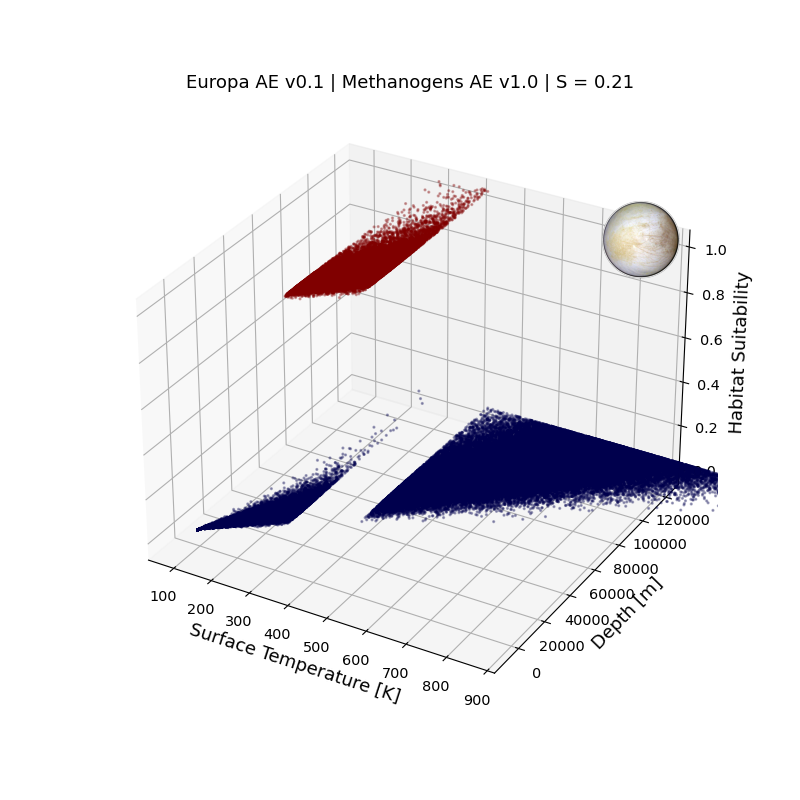
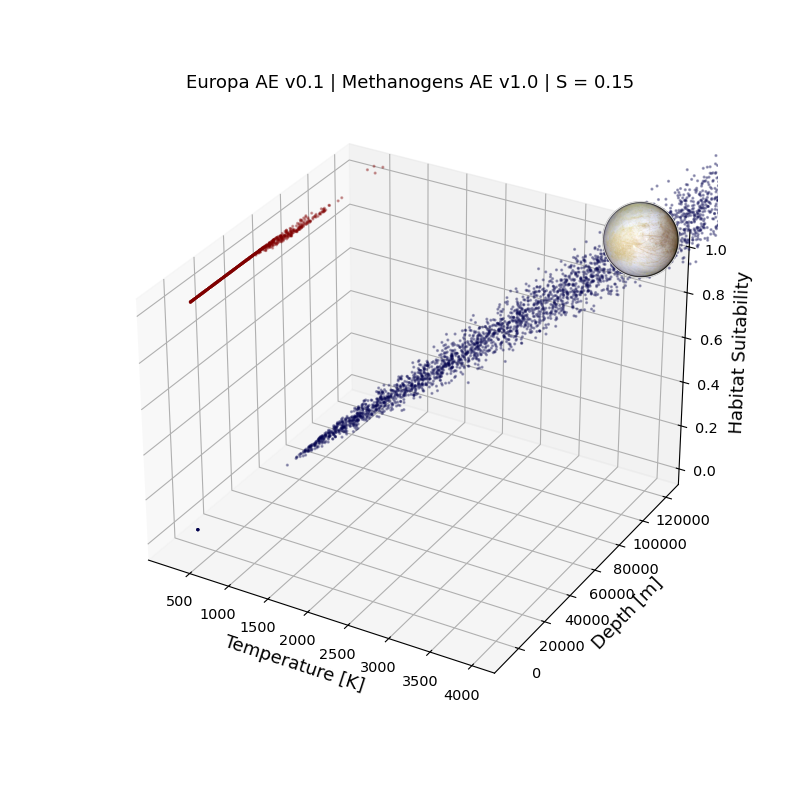
Added a lower-boundary value for Europa ocean temperature, and made various bug fixes related to parameter value types in the Europa module

diff --git a/Habitats/.ipynb_checkpoints/europamodules-checkpoint.py b/Habitats/.ipynb_checkpoints/europamodules-checkpoint.py
@@ -20,7 +20,7 @@ def europamodules():
     def _execute(self):
         #global Bond_Albedo
         mu_albedo, sigma_albedo = 0.64, 0.00 # mean and standard deviation. The albedo is from "The Planetary Scientist's Companion", Lodders & Fegley
-        keyparams.Bond_Albedo = np.random.normal(mu_albedo, sigma_albedo, 1)[0]
+        keyparams.Bond_Albedo = np.random.normal(mu_albedo, sigma_albedo, 1)
 
     ModuleTemp.execute = types.MethodType(_execute, ModuleTemp)
     ModuleAlbedo = ModuleTemp
@@ -37,9 +37,9 @@ def europamodules():
     def _execute(self):
         #global Luminosity, Stellar_Mass, Stellar_Age
         keyparams.Luminosity = mu_st_lum, sigma_st_lum = 1.0, 0.00001 # Solar luminosity is 1.0 in Lsol units
-        keyparams.Luminosity = np.random.normal(mu_st_lum, sigma_st_lum, 1)[0]
+        keyparams.Luminosity = np.random.normal(mu_st_lum, sigma_st_lum, 1)
         mu_st_mass, sigma_st_mass = 1.0000, 0.000001 # mean and standard deviation, Solar mass in solar units
-        keyparams.Stellar_Mass = np.random.normal(mu_st_mass, sigma_st_mass, 1)[0]
+        keyparams.Stellar_Mass = np.random.normal(mu_st_mass, sigma_st_mass, 1)
         keyparams.Stellar_Age = 4.567 # average eccentricity
     ModuleTemp.execute = types.MethodType(_execute, ModuleTemp)
     ModuleStar = ModuleTemp
@@ -77,7 +77,7 @@ def europamodules():
         Msol = 1.98910e30 # Solar mass in kilograms
         MEarth = 5.9736e24 # Earth mass in kilograms
         mu_p, sigma_p = 0.47910e23 / Msol, 0.00 # mean and standard deviation in units of Mstar, from "The Planetary Scientist's Companion", Lodders & Fegley
-        keyparams.Planet_Mass_Mstar = np.random.normal(mu_p, sigma_p, 1)[0] # Planet mass in units of stellar mass
+        keyparams.Planet_Mass_Mstar = np.random.normal(mu_p, sigma_p, 1) # Planet mass in units of stellar mass
         unitconversion = MEarth / Msol # Convert Solar mass to Earth mass
         keyparams.Planet_Mass = keyparams.Planet_Mass_Mstar * keyparams.Stellar_Mass * unitconversion # Planet mass in Earth masses
         #keyparams.Mantle_Composition = [0.7,0.3] # Fe / Si / Mg mass ratio
@@ -86,12 +86,12 @@ def europamodules():
         if keyparams.ProbeIndex is not None:        # Is the program sampling multiple locations in the parameter space?
             keyparams.Depth = keyparams.ProbeIndex * 1000. # If so, depth [in meter] is calculated from the probe index
         else:
-            keyparams.Depth = np.random.uniform(low=0., high=136_000.)[0] # Depth in meter
+            keyparams.Depth = np.random.uniform(low=0., high=136_000.) # Depth in meter
 
-        mu_ice, sigma_ice = 20000., 4000. # mean and standard deviation in units of  # Ice thickness mean and 1 sigma, in meters; assumption
+        mu_ice, sigma_ice = 20_000, 4_000.00 # mean and standard deviation in units of  # Ice thickness mean and 1 sigma, in meters; assumption
         keyparams.Mean_IceThickness  = mu_ice
-        keyparams.Ice_Thickness = np.clip(np.random.normal(mu_ice, sigma_ice, 1),0.0, 20_000.).item() # Ice thickness
-        #print(keyparams.Ice_Thickness.item())
+        keyparams.Ice_Thickness = np.clip(np.random.normal(mu_ice, sigma_ice, 1),0.0, 400.) # Ice thickness mean and 1 sigma, in meters
+
 
     ModuleTemp.execute = types.MethodType(_execute, ModuleTemp)
     ModuleTemp.define_ID(m_id)
@@ -112,11 +112,9 @@ def europamodules():
     ModuleTemp.add_output('Internal_Pressure')
     def _execute(self):
         mu_p, sigma_p = 0.000, 0.000 # mean and standard deviation, pressure in units of atm -- Lacking an atmosphere, Europa does not have atmospheric pressure
-        keyparams.Surface_Pressure = np.random.normal(mu_p, sigma_p, 1)[0]
+        keyparams.Surface_Pressure = np.random.normal(mu_p, sigma_p, 1)
         keyparams.Surface_Pressure = np.clip(keyparams.Surface_Pressure, 0., 5e3) # Limit pressure to the range in which the lower T boundary of the water phase diagram is mostly constant
         keyparams.Internal_Pressure = keyparams.Surface_Pressure + (keyparams.Depth * keyparams.Gravity * keyparams.Density)/101325.  # Pressure at Depth equals atmospheric pressure plus density times gravity times column height (i.e., depth)
-        # fix Internal_Pressure being single-valued array to being a float
-        keyparams.Internal_Pressure = keyparams.Internal_Pressure
         keyparams.Pressure = keyparams.Internal_Pressure
     ModuleTemp.execute = types.MethodType(_execute, ModuleTemp)
     ModuleTemp.define_ID(m_id)
@@ -159,25 +157,19 @@ def europamodules():
     ModuleTemp.add_output('Temperature')
     def _execute(self):
         mu_tgrad_ice, sigma_tgrad_ice = 0.001, 0.00 # mean and standard deviation, in K/m of the temperature gradient in ice
-        keyparams.Thermal_Gradient_Ice = np.random.normal(mu_tgrad_ice, sigma_tgrad_ice, 1)[0]
-        #print([keyparams.Depth,keyparams.Ice_Thickness])
+        keyparams.Thermal_Gradient_Ice = np.random.normal(mu_tgrad_ice, sigma_tgrad_ice, 1)
+
         keyparams.Interior_Temperature= keyparams.Surface_Temperature + np.min([keyparams.Depth,keyparams.Ice_Thickness]) * keyparams.Thermal_Gradient_Ice
 
         mu_tgrad_water, sigma_tgrad_water = 0.005, 0.001 # mean and standard deviation, in K/m of the temperature gradient in water ocean
-        keyparams.Thermal_Gradient_Water = np.random.normal(mu_tgrad_water, sigma_tgrad_water, 1)[0]
+        keyparams.Thermal_Gradient_Water = np.random.normal(mu_tgrad_water, sigma_tgrad_water, 1)
 
 
         # Calculate the water column above current depth (not the ice) and add the temperature difference:
         if keyparams.Depth > keyparams.Ice_Thickness:
             keyparams.Interior_Temperature += (keyparams.Depth - keyparams.Ice_Thickness) * keyparams.Thermal_Gradient_Water
-        # Interior_Temperature calculated as a single-value array so need to pull that single-value out before saving
-        keyparams.Interior_Temperature = keyparams.Interior_Temperature
+
         keyparams.Temperature = keyparams.Interior_Temperature
-        
-        # Enforce physical limits:
-        freezing_point = 273. # freezing point of water in [Kelvin]
-        if keyparams.Temperature < freezing_point:
-            keyparams.Temperature = freezing_point # the ocean temperature (at the surface of the ocean) can't be below the freezing point
 
     ModuleTemp.execute = types.MethodType(_execute, ModuleTemp)
     ModuleTemp.define_ID(m_id)

diff --git a/Analyses/viseuropa.py b/Analyses/viseuropa.py
@@ -89,23 +89,25 @@ def QHFvisualize(screen,sf,Suitability_Distribution,Temperature_Distribution,Bon
     fig.savefig('Figures/Europa_3D-Plot.png')
     plt.show()
 
-
-    breakpoint()
+    # debugging breakpoint, comment-out to let things run through without interruption:
+    #breakpoint()
 
     # Multi-plot showing distributions of key parameters
     # This will need to be optimizable from the module loaded, but now I specify the parameters
-
+    N_iter = np.floor(len(Temperature_Distribution)).astype(int) # set number of iterations based on length of a posterior distribution array
     fig=plt.figure(figsize=(4.00, 2.00), dpi=400)
     fig, axs = plt.subplots(2, 2)
     axs[0, 0].hist(Temperature_Distribution,bins=np.clip(math.floor(N_iter/60.), 5, 30))
     axs[0, 0].set_title('Temperature [K]')
-    #axs[0,0].set(xlabel='[K]', ylabel='y-label')
-    axs[0, 1].hist(Pressure_Distribution, bins=np.clip(math.floor(N_iter/60.), 5, 30))
-    axs[0, 1].set_title('Surface Pressure [bar]')
-    axs[1, 0].hist(BondAlbedo_Distribution, bins=np.clip(math.floor(N_iter/60.), 5, 30))
-    axs[1, 0].set_title('Bond Albedo')
-    axs[1, 1].hist(GreenHouse_Distribution, bins=np.clip(math.floor(N_iter/60.), 5, 30))
-    axs[1, 1].set_title('Greenhouse Warming [K]')
+    axs[0,0].set(xlabel='[K]', ylabel='y-label')
+    # Matthew here -- I've commented these out to avoid errors because they don't really make sense for Europa,
+    #    and aren't even calculated properly for such a plot like this anyways
+    #axs[0, 1].hist(Surface_Pressure_Distribution, bins=np.clip(math.floor(N_iter/60.), 5, 30))
+    #axs[0, 1].set_title('Surface Pressure [bar]')
+    #axs[1, 0].hist(BondAlbedo_Distribution, bins=np.clip(math.floor(N_iter/60.), 5, 30))
+    #axs[1, 0].set_title('Bond Albedo')
+    #axs[1, 1].hist(GreenHouse_Distribution, bins=np.clip(math.floor(N_iter/60.), 5, 30))
+    #axs[1, 1].set_title('Greenhouse Warming [K]')
     #fig.tight_layout()
 
     #for ax in axs.flat:
